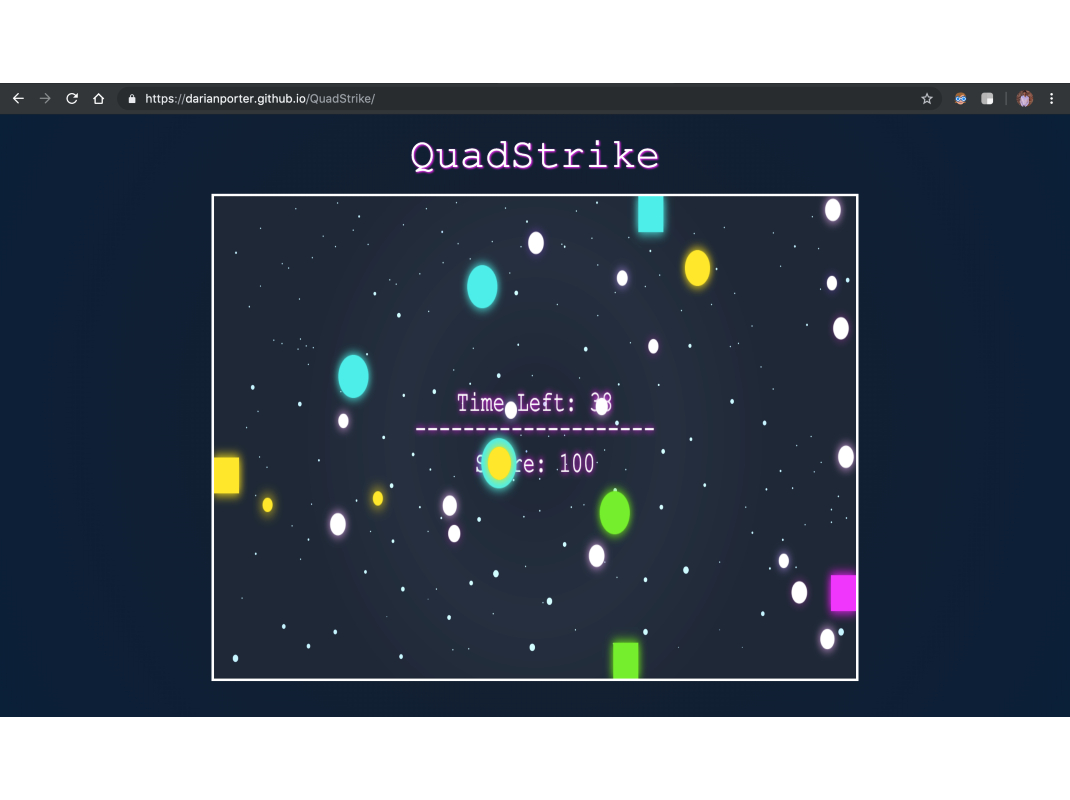
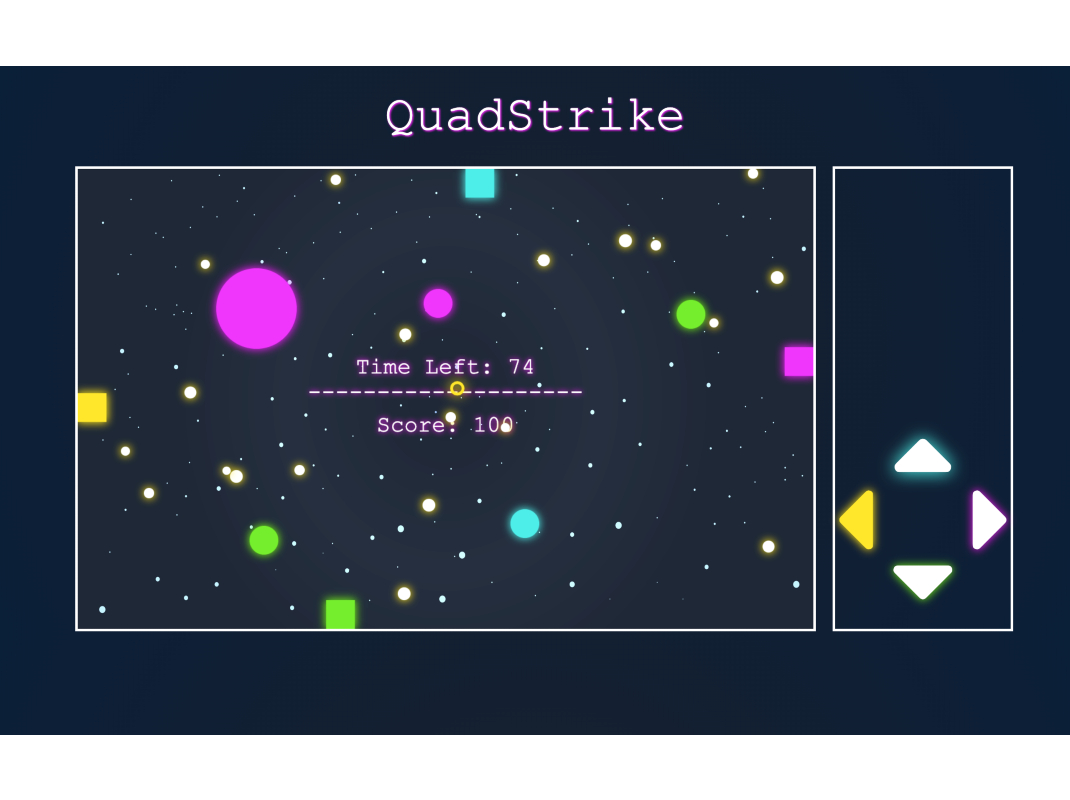
updated quadstrike

diff --git a/index.html b/index.html
@@ -622,7 +622,7 @@
                     <div class="row">
                         <!-- Project Main Content Starts -->
                         <div class="col s12 l6 xl6 section-padding section-padding-right-none">
-                            <img class="responsive-img" src="https://media.giphy.com/media/d9TazVM12adEsAK3MB/giphy.gif" alt="project" />
+                            <img class="responsive-img" src="https://media.giphy.com/media/ReVjWB6L1JQOjb2XS5/giphy.gif" alt="project" />
                         </div>
                         <!-- Project Main Content Ends -->
                         <!-- Project Details Starts -->
